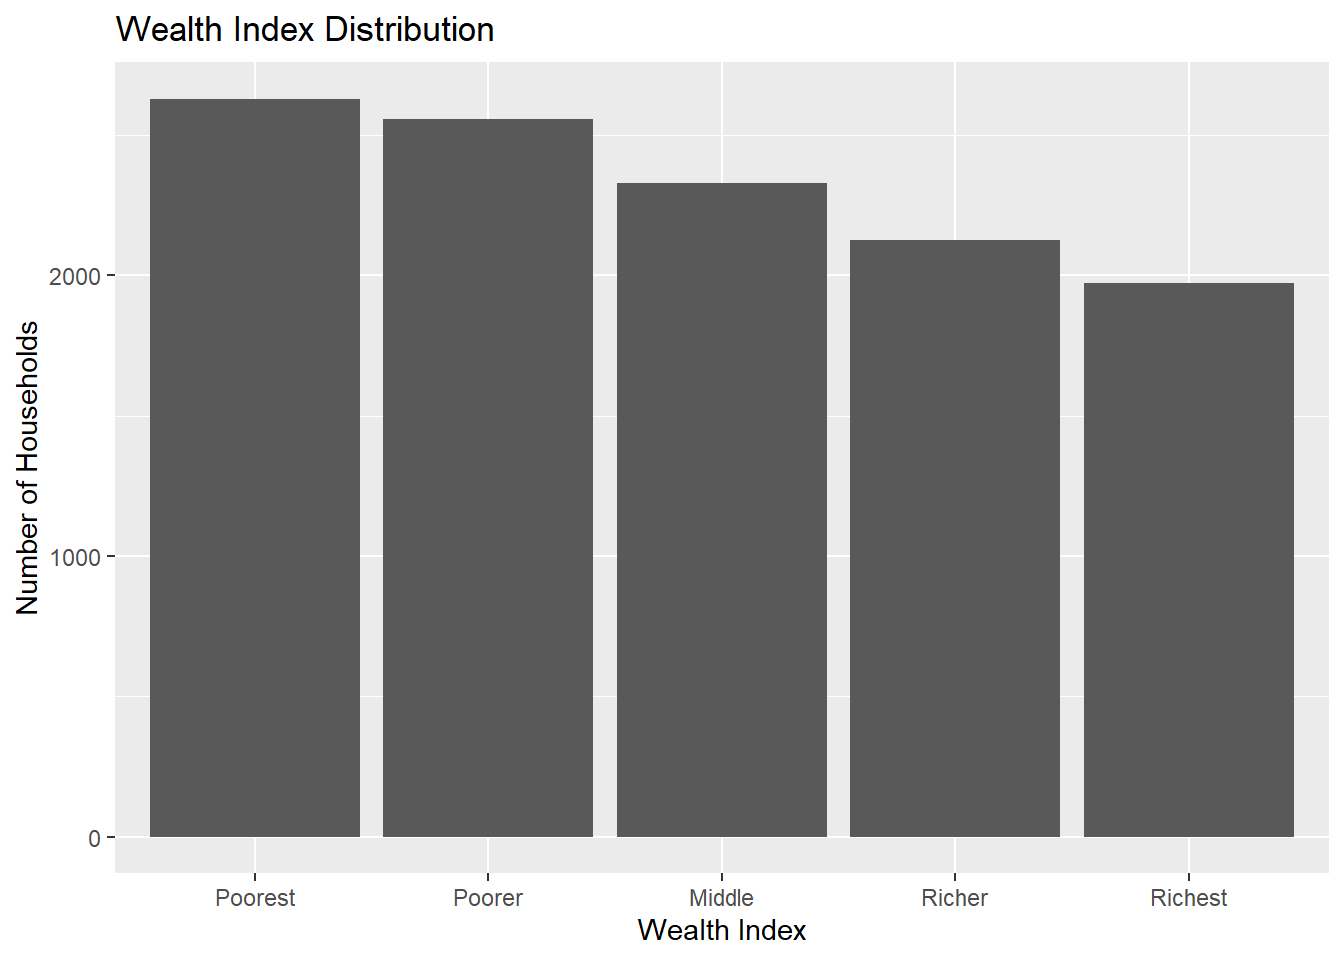
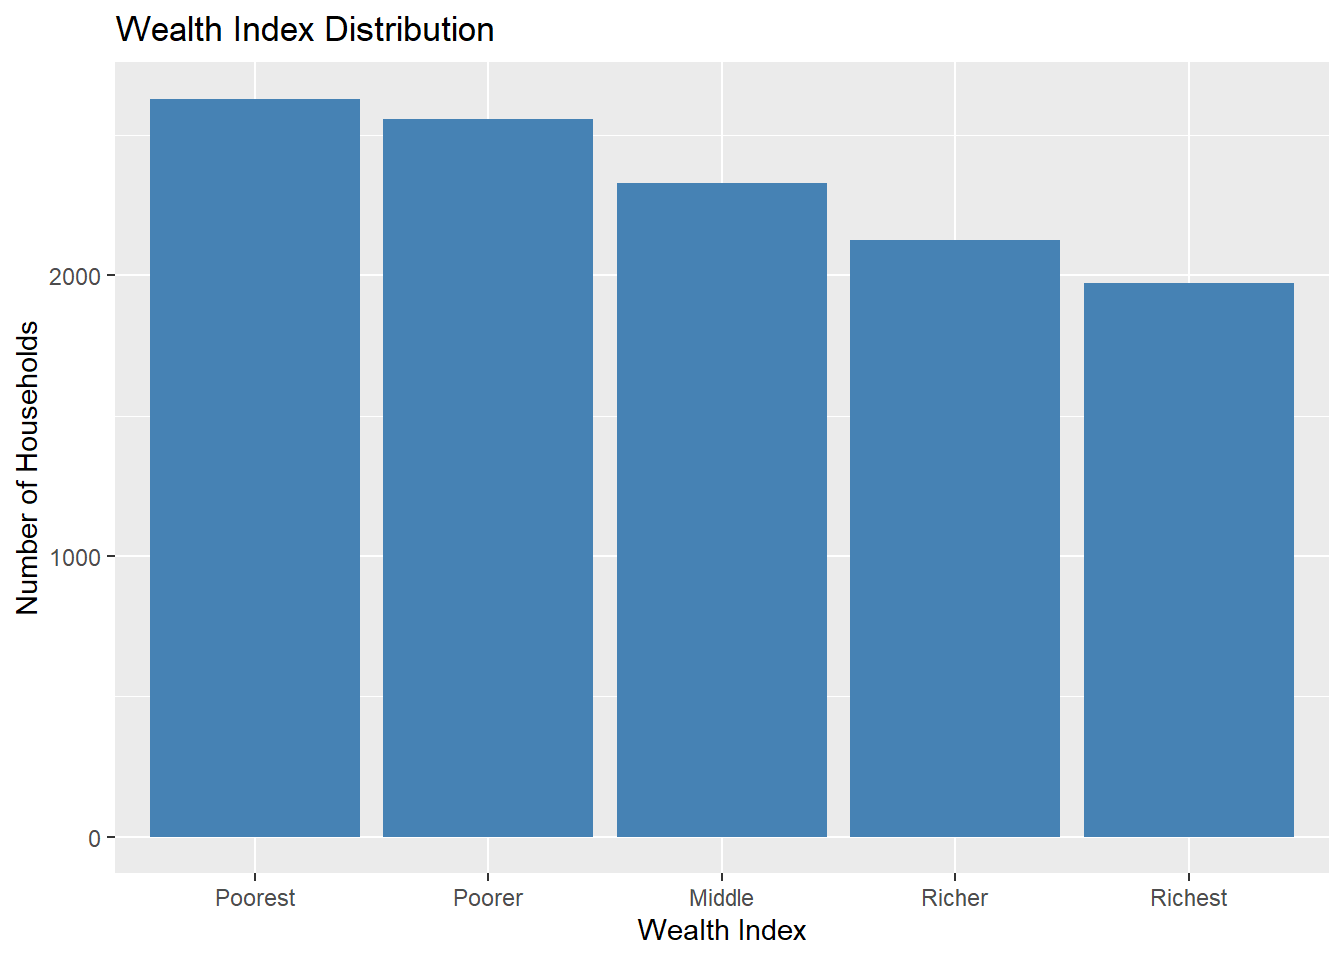
Minor changes on report

diff --git a/report.html b/report.html
@@ -1719,10 +1719,10 @@ household &lt;- household[ , -which(names(household) %in% c(&quot;woman_member&q
 <div id="data-distribution" class="section level4">
 <h4>Data Distribution</h4>
 <p>The wealth index of a household is the target that is tried to predict. The distribution of the wealth index is quite balanced. It helps to ensure the model does not tend to a class when the target class is balanced.</p>
-<pre class="r"><code>ggplot(household, aes(x = wealth_index)) + geom_bar() + 
+<pre class="r"><code>ggplot(household, aes(x = wealth_index)) + geom_bar(fill=&quot;steelblue&quot;) + 
         xlab(&quot;Wealth Index&quot;) + ylab(&quot;Number of Households&quot;) + 
         ggtitle(label = &quot;Wealth Index Distribution&quot;)</code></pre>
[2 lines of base64/hex data omitted]
 <p>Distributions of the some of binary attributes about households are too imbalanced. There are not enough counter samples for these attributes. Therefore, these attributes can misguide the model when predicting the wealth index. Imbalanced attributes:</p>
 <pre class="r"><code>summary(household[, c(&quot;refrigerator&quot;, &quot;garbage_grinder&quot;, &quot;washing_machine&quot;, &quot;washer_dryer&quot;, 
                       &quot;home_theather&quot;, &quot;mobile_phone&quot;, &quot;taxi_minibus&quot;, &quot;tractor&quot;, &quot;motorcycle&quot;)])</code></pre>
@@ -1789,8 +1789,8 @@ samples &lt;- sample(1:nrow(household), nrow(household)*0.8)
 train &lt;- household[samples, ]
 test &lt;- household[-samples, ]</code></pre>
 </div>
-<div id="analyze-decision-boundary" class="section level3">
-<h3>Analyze Decision Boundary</h3>
+<div id="analyze-decision" class="section level3">
+<h3>Analyze Decision</h3>
 <p>By using a simple decision tree, tried to understand the decision boundary for classification household dataset according to the wealth index.</p>
 <pre class="r"><code>decision_tree &lt;- rpartXse(wealth_index ~ ., 
                           train[,c(&quot;wealth_index&quot;, &quot;heating&quot;, &quot;dishwasher&quot;, 
